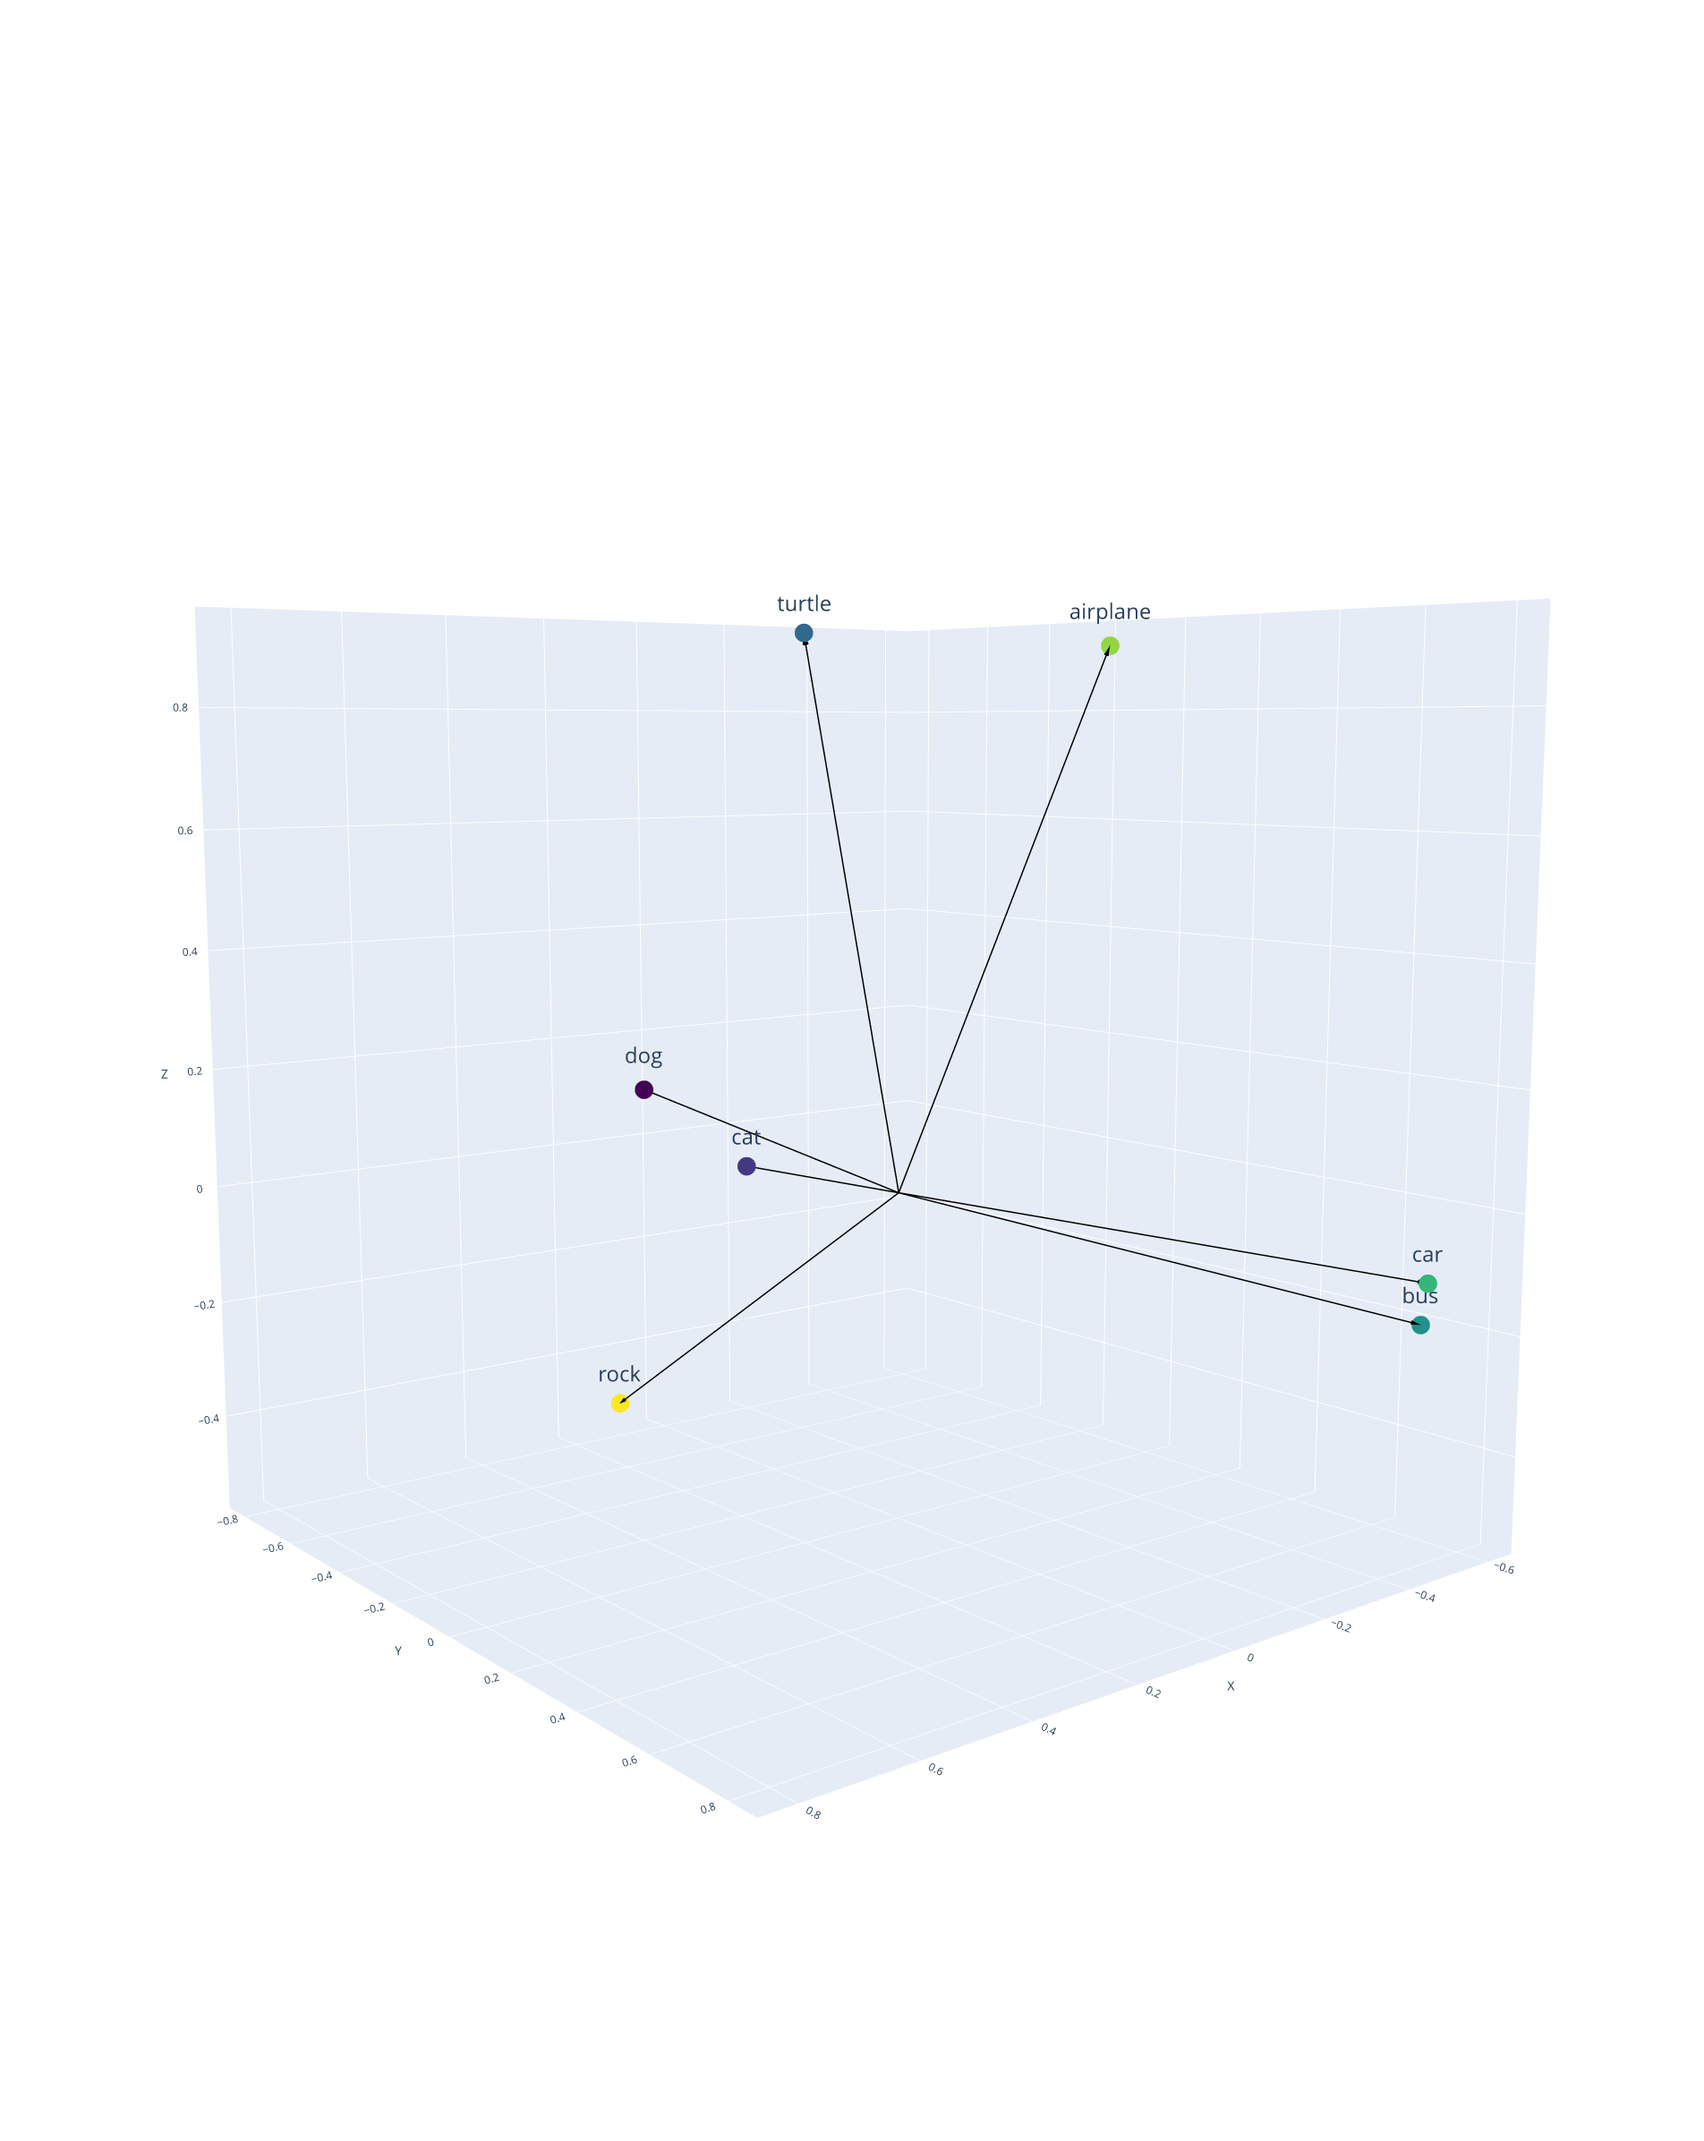
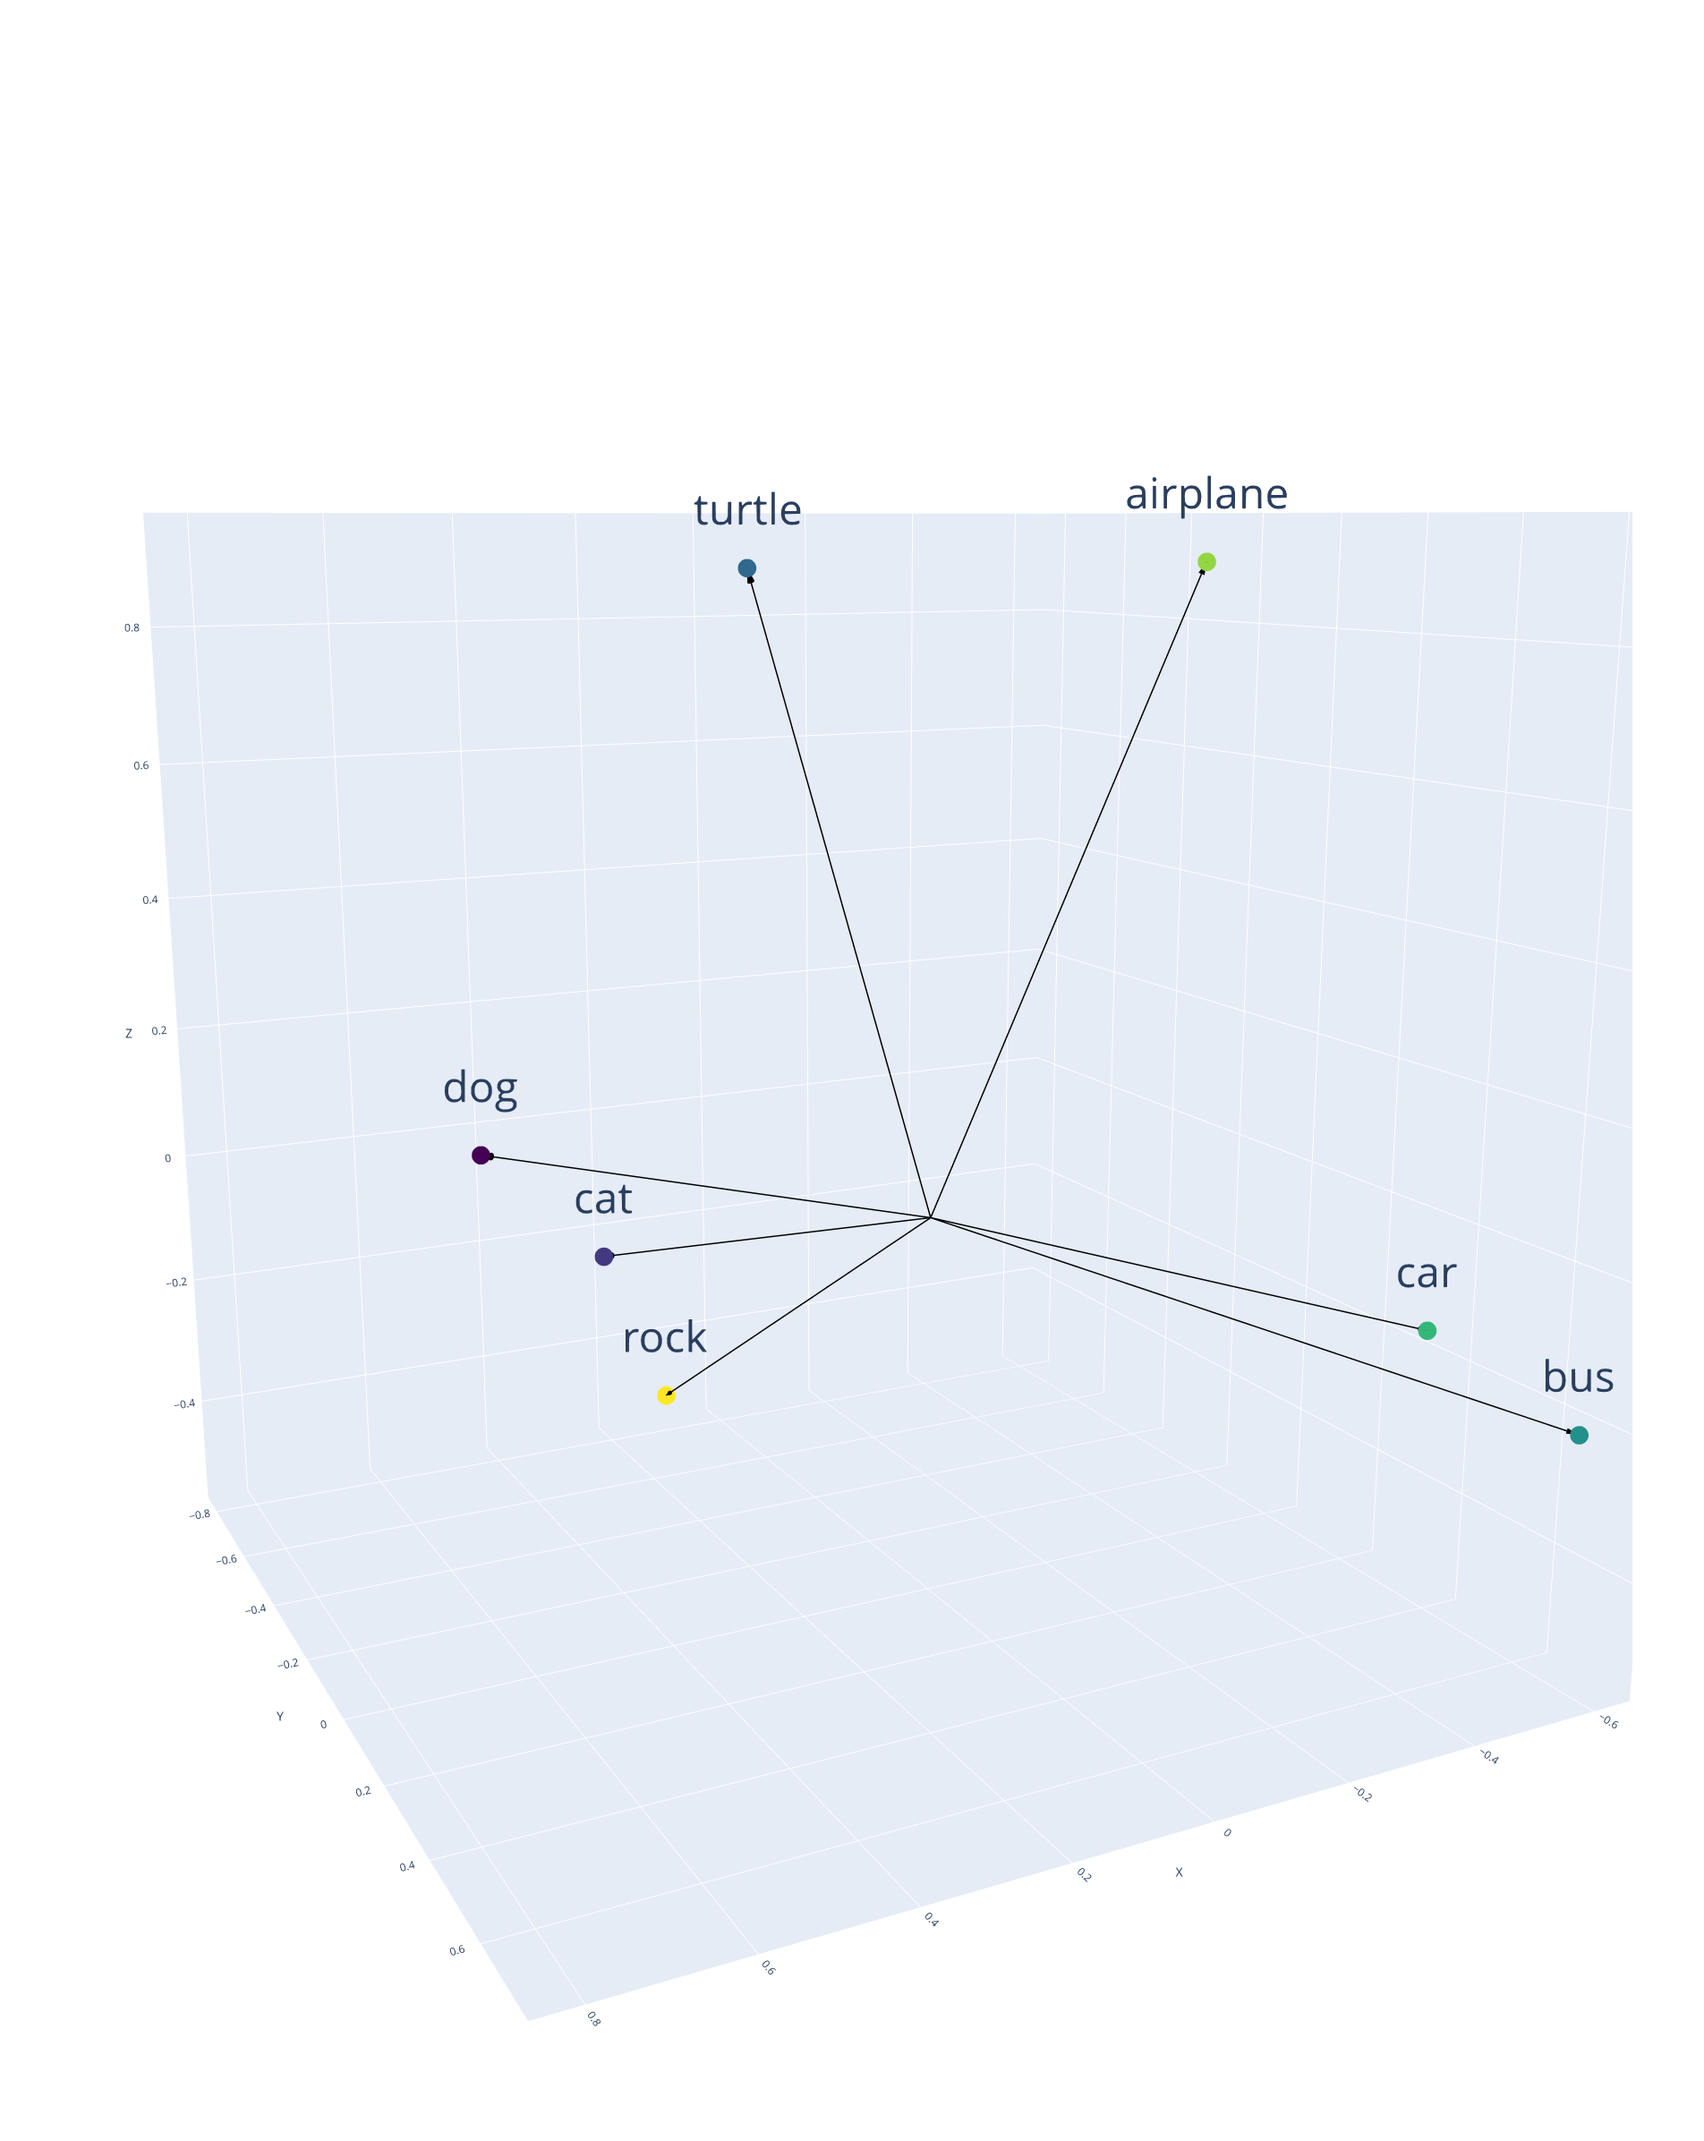
Update word embeddings

diff --git a/Presentation/word_embeddings.py b/Presentation/word_embeddings.py
@@ -6,7 +6,7 @@ embeddings = {
     'cat': [0.7, 0.6, 0.2],
     'turtle': [0.4, 0.3, 0.9],
     'bus': [-0.6, 0.7, -0.2],
-    'car': [-0.5, 0.8, -0.1],
+    'car': [-0.5, 0.5, -0.1],
     'airplane': [-0.3, 0.2, 0.9],
     'rock': [0.1, -0.8, -0.5]
 }
@@ -21,7 +21,7 @@ scatter = go.Scatter3d(
     mode='markers+text',
     text=words,
     marker=dict(size=10, color=list(range(len(words))), colorscale='Viridis'),
-    textfont=dict(size=24),
+    textfont=dict(size=48),
     textposition="top center"
 )
 
